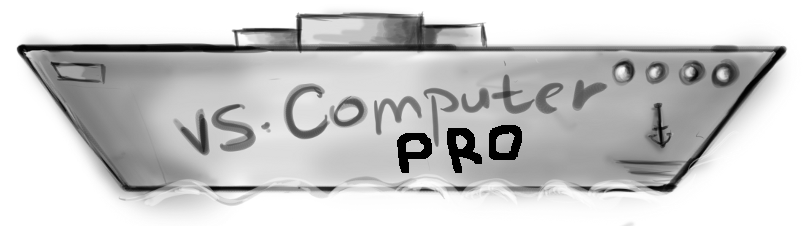
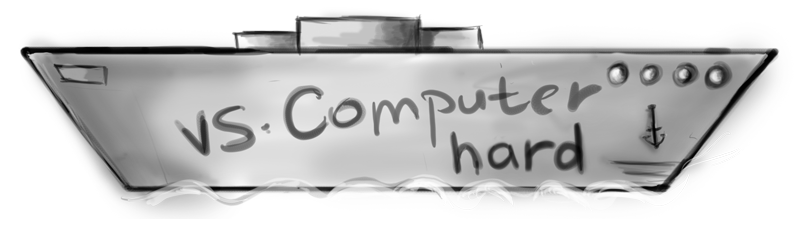
button pictures and turn message pictures added

diff --git a/client/src/qmlView/qml/ShipButton.qml b/client/src/qmlView/qml/ShipButton.qml
@@ -25,7 +25,7 @@ Rectangle {
 		height: parent.height
 		property string vsAiPath: "image://provider/qml/vs_computer_button.png"
 		property string vsPlrPath: "image://provider/qml/vs_player_button.png"
-		property string vsAiSimplePath: "image://provider/qml/vs_computer_button_simple.png"
+        property string vsAiSimplePath: "image://provider/qml/qml/vs_computer_button_simple.png"
 		property string vsAiHardPath: "image://provider/qml/vs_computer_button_hard.png"
 		property variant texture:[vsAiPath, vsPlrPath, vsAiSimplePath, vsAiHardPath]
 		source: texture[parent.type]
